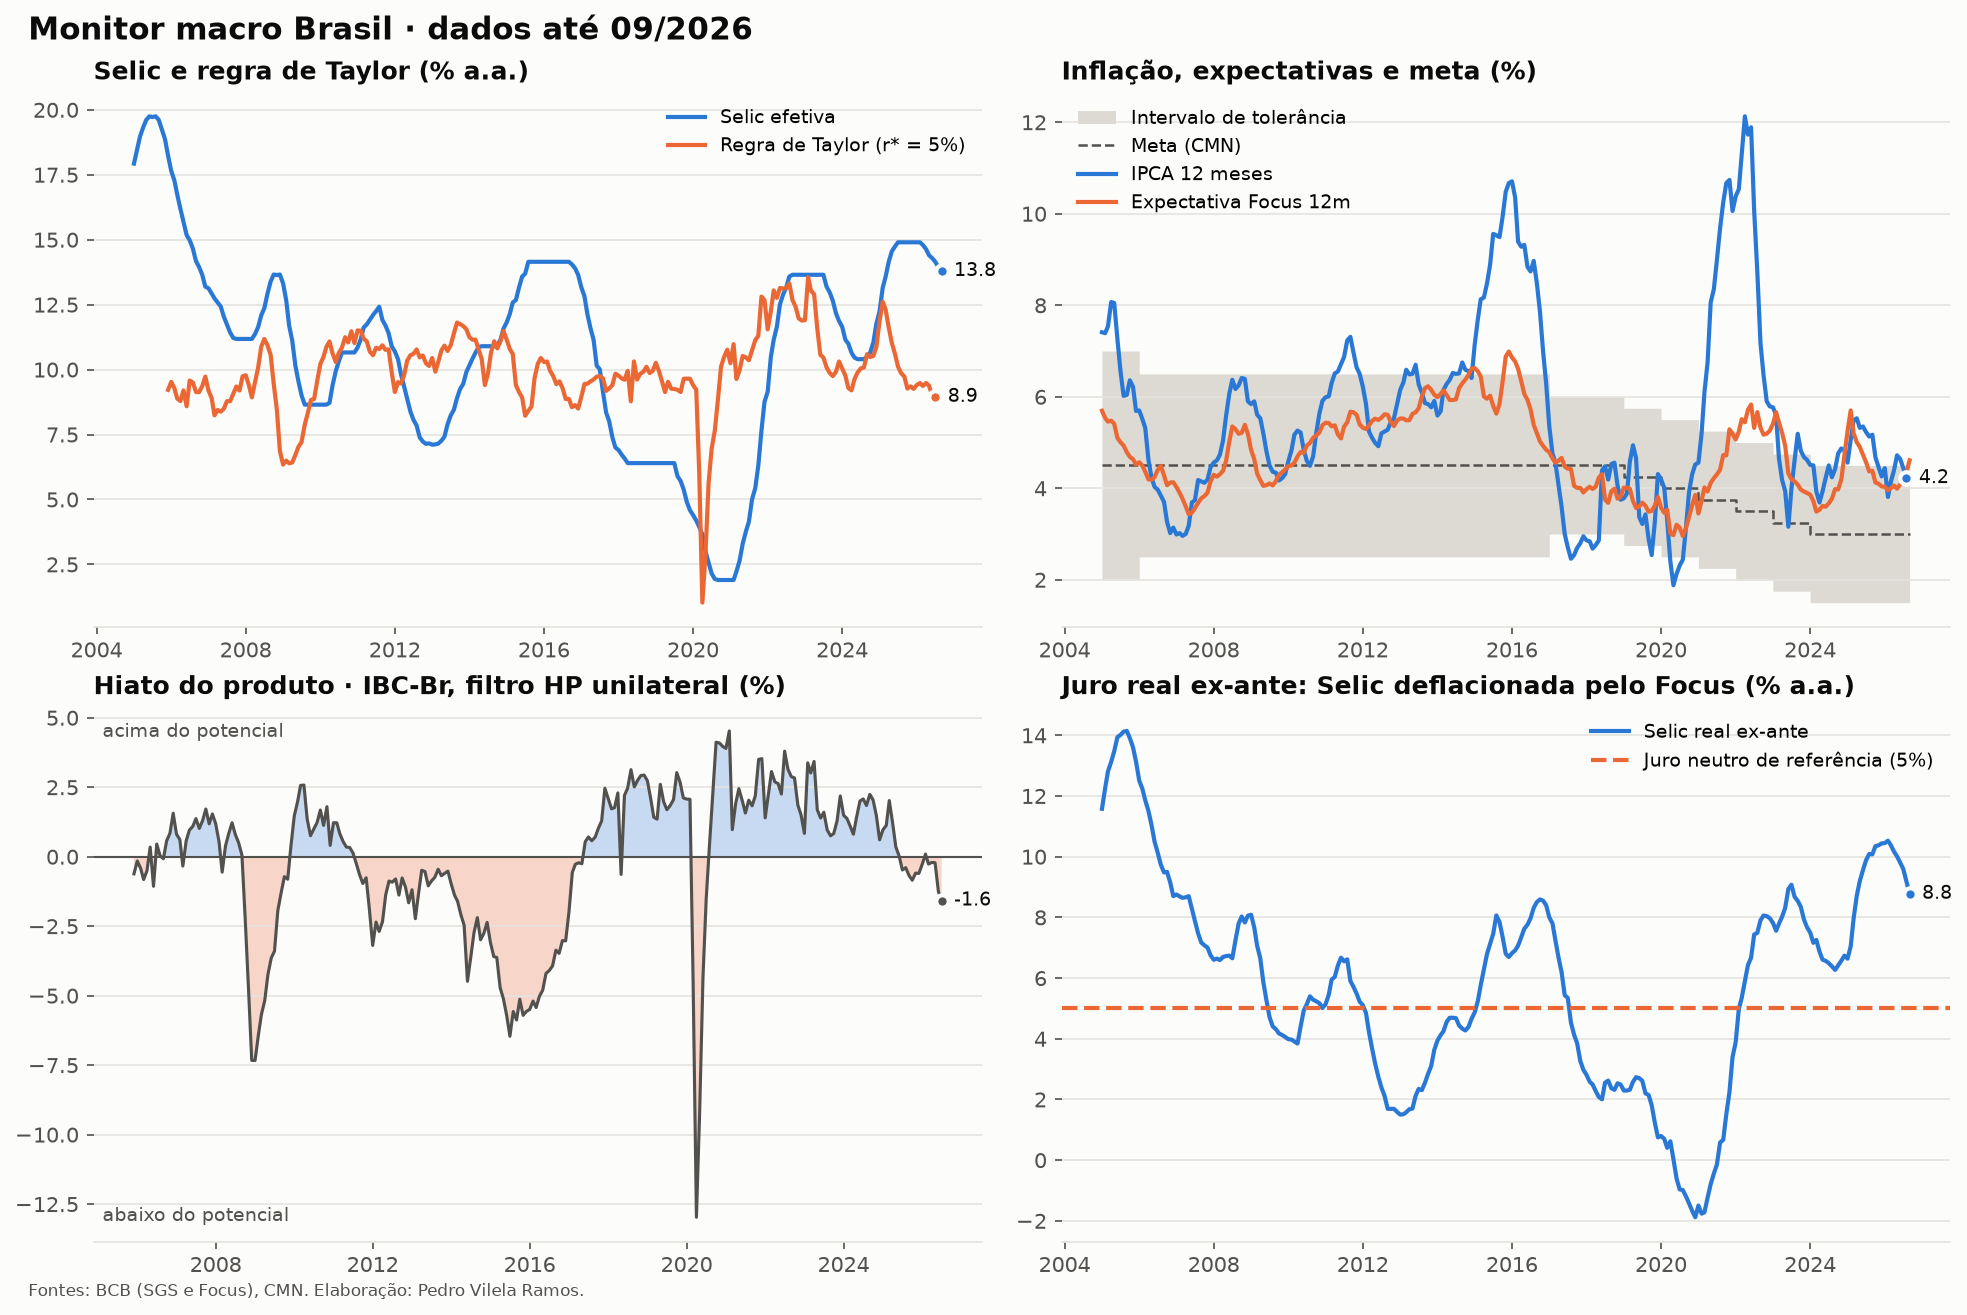
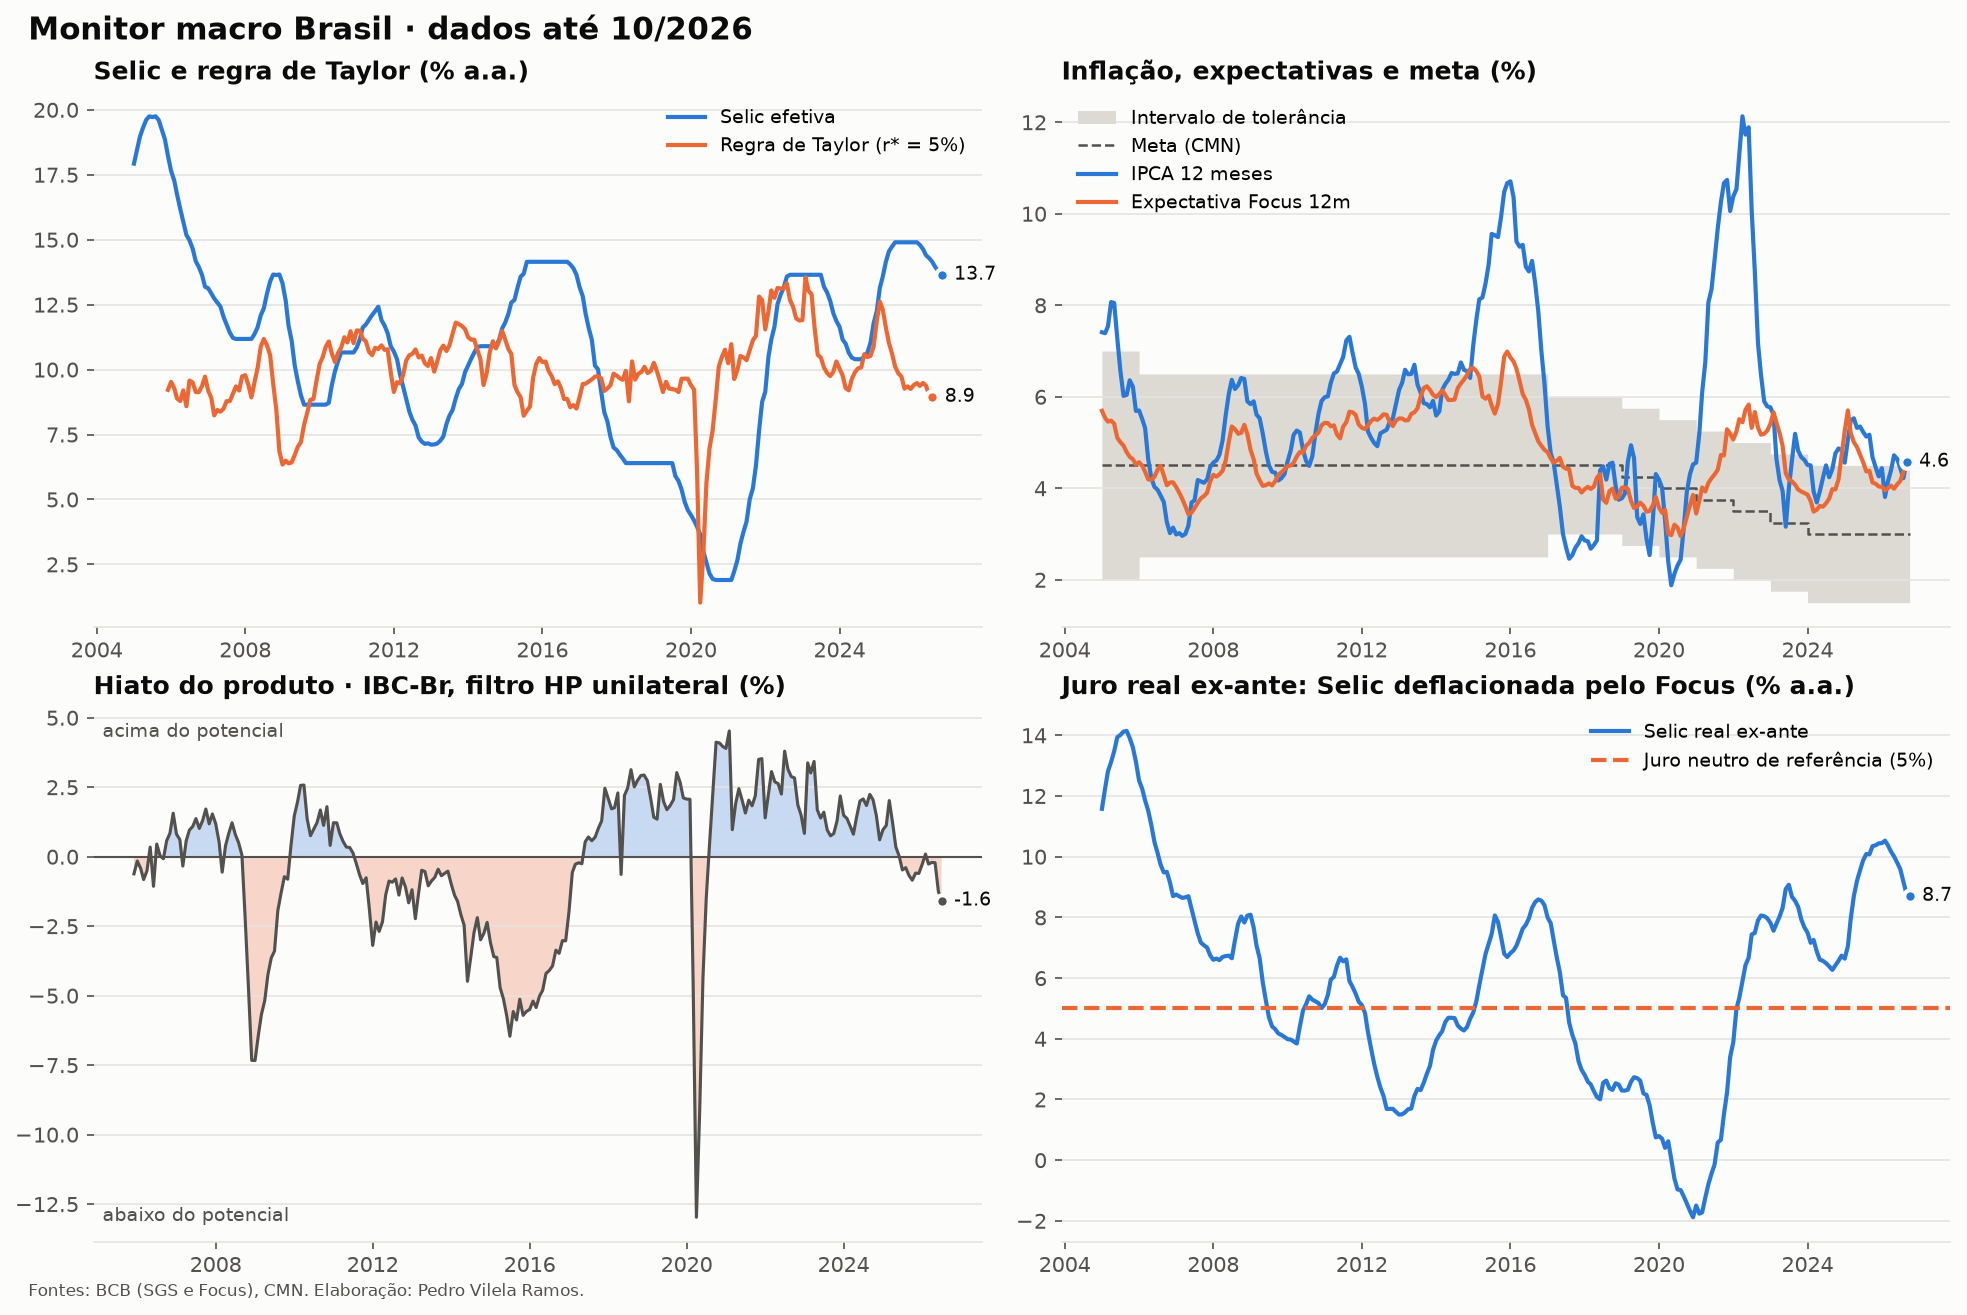
Atualização automática: 2026-10-15

diff --git a/relatorio.md b/relatorio.md
@@ -1,6 +1,6 @@
 # Relatório do monitor macro
 
-*Gerado automaticamente em 29/09/2026.*
+*Gerado automaticamente em 15/10/2026.*
 
 ![Painel](figures/painel.png)
 
@@ -8,12 +8,12 @@
 
 | Indicador | Valor | Referência |
 |---|---:|---:|
-| Selic efetiva (% a.a.) | 13.79 | 09/2026 |
-| IPCA 12 meses (%) | 4.22 | 08/2026 |
-| Expectativa Focus 12m (%) | 4.61 | 09/2026 |
-| Meta de inflação (%) | 3.00 | 09/2026 |
+| Selic efetiva (% a.a.) | 13.65 | 10/2026 |
+| IPCA 12 meses (%) | 4.58 | 09/2026 |
+| Expectativa Focus 12m (%) | 4.55 | 10/2026 |
+| Meta de inflação (%) | 3.00 | 10/2026 |
 | Hiato do produto (%) | -1.58 | 07/2026 |
-| Juro real ex-ante (% a.a.) | 8.77 | 09/2026 |
+| Juro real ex-ante (% a.a.) | 8.71 | 10/2026 |
 | Regra de Taylor, r* = 5% (% a.a.) | 8.95 | 07/2026 |
 | Regra estimada, alvo (% a.a.) | 11.70 | 07/2026 |
 | Selic − regra de Taylor (p.p.) | 5.20 | 07/2026 |
@@ -57,18 +57,18 @@ só neste relatório.
 
 ## Curva de Phillips (trimestral)
 
-Amostra 2006Q1 a 2026Q2, com dummies sazonais.
+Amostra 2006Q1 a 2026Q3, com dummies sazonais.
 $\pi_t = c + \beta_f E_t\pi_{t+1} + \beta_b\,\pi_{t-1} + \gamma\,\tilde y_{t-1} + \delta\,\Delta e_{t-1} + \varepsilon_t$
 
 | Variável | Coeficiente | Erro-padrão (HAC) | p-valor |
 |---|---:|---:|---:|
-| Constante | 0.945 | 0.444 | 0.033 |
-| Expectativa (βf) | 0.200 | 0.498 | 0.688 |
-| Inflação defasada (βb) | 0.376 | 0.144 | 0.009 |
-| Hiato defasado (γ) | -0.024 | 0.028 | 0.403 |
-| Δ câmbio defasado (δ) | 0.014 | 0.013 | 0.291 |
+| Constante | 0.930 | 0.440 | 0.035 |
+| Expectativa (βf) | 0.217 | 0.491 | 0.658 |
+| Inflação defasada (βb) | 0.372 | 0.142 | 0.009 |
+| Hiato defasado (γ) | -0.023 | 0.029 | 0.419 |
+| Δ câmbio defasado (δ) | 0.014 | 0.013 | 0.282 |
 
-R² = 0.365 · N = 82
+R² = 0.370 · N = 83
 
-Soma βf + βb = 0.58
+Soma βf + βb = 0.59
 (próximo de 1 indica curva vertical no longo prazo).
